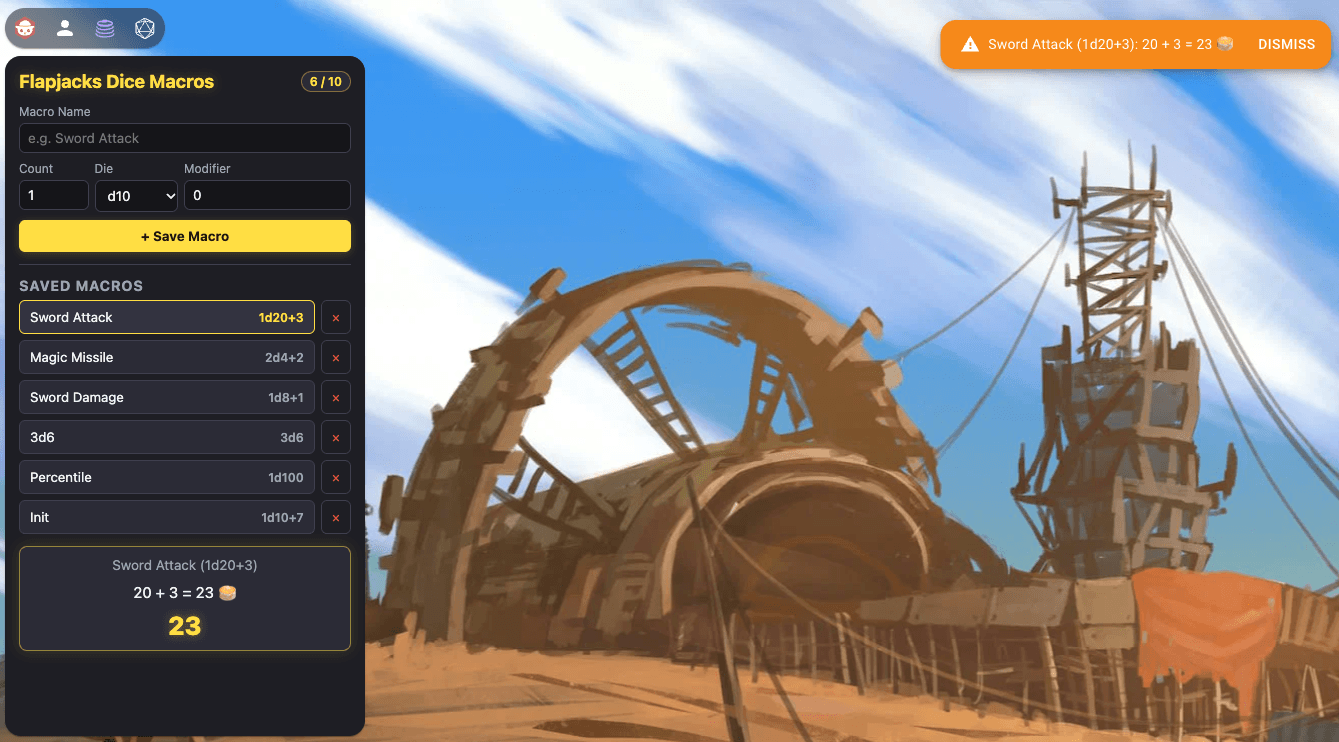
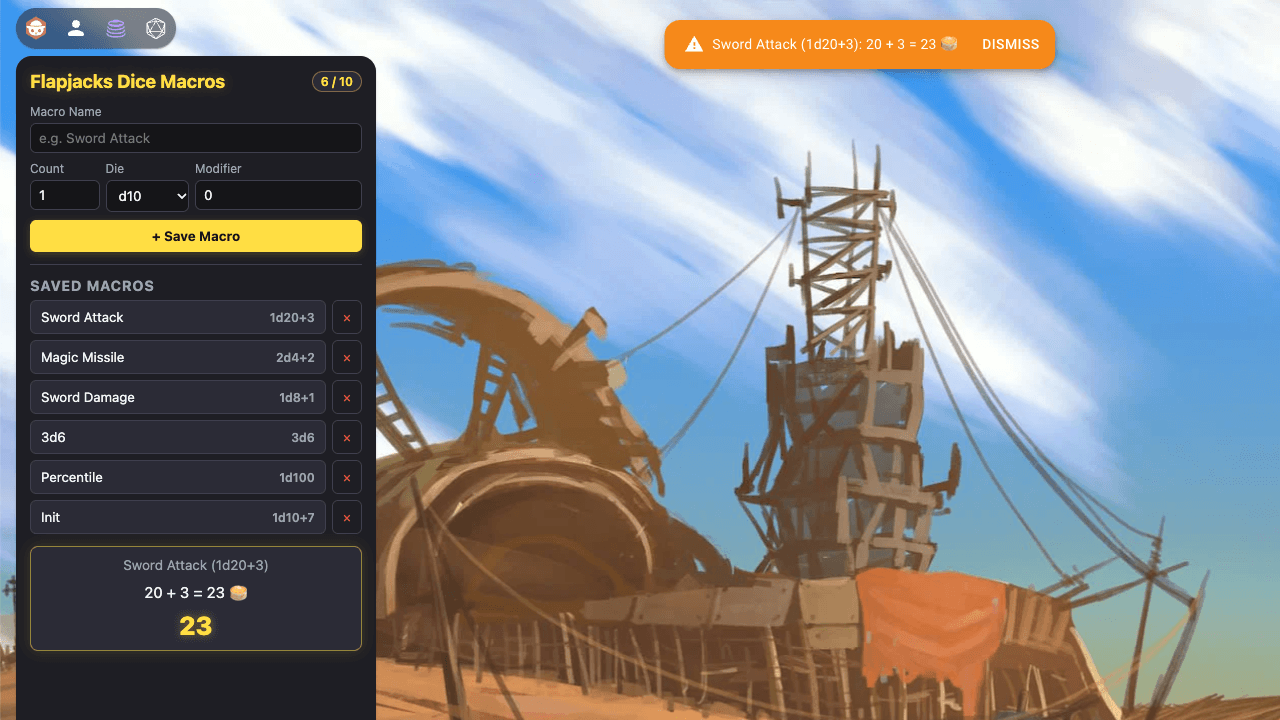
Add files via upload

diff --git a/store.md b/store.md
@@ -1,0 +1,45 @@
+---
+name: Flapjacks Dice Macros
+tagline: Create, save, and roll custom dice macros with full roll breakdowns.
+description: Create quick, reusable dice macros directly inside Owlbear Rodeo. Save up to 10 custom macros across sessions and share exact math breakdowns with the whole room.
+learnMore: https://github.com/athies/flapjacks_dice_macros
+author:
+  name: Flapjacks
+  link: https://github.com/athies
+images:
+  - https://raw.githubusercontent.com/athies/flapjacks_dice_macros/main/screenshot.png
+tags:
+  - Dice
+  - Utility
+---
+
+# Flapjacks Dice Macros
+
+Speed up your tabletop encounters with **Flapjacks Dice Macros**! Configure your most frequent attacks, checks, and damage formulas into one-click buttons right from your toolbar action menu.
+
+![Flapjacks Dice Macros Overview](https://raw.githubusercontent.com/athies/flapjacks_dice_macros/main/screenshot.png)
+
+## Features
+
+- **Up to 10 Persistent Macros:** Build and store up to 10 custom roll buttons saved directly across sessions.
+- **Multiple Die Types & Quantities:** Supports d4, d6, d8, d10, d12, d20, and d100 with any count (e.g. `1d20`, `2d4`, `4d6`).
+- **Flexible Modifiers:** Add positive or negative modifiers (e.g. `+5`, `-2`).
+- **Detailed Math Breakdowns:** Displays every individual die rolled, modifiers, and the final sum (e.g. `Sword Attack (1d20+5): 14 + 5 = 19`).
+- **Real-Time Room Broadcasting:** Rolls are broadcast live to all players in the room via in-game notification banners.
+- **Flapjack Crits:** Rolls that hit the maximum possible dice total earn a celebratory `🥞` pancake badge!
+
+---
+
+## How to Use
+
+1. Click the **Flapjacks Dice Macros** icon in your top toolbar.
+2. Enter a **Name** (e.g. *Sword Attack* or *Sneak Attack*).
+3. Set the **Count**, pick your **Die Type**, and specify any positive or negative **Modifier**.
+4. Click **+ Save Macro**.
+5. Click your new macro button anytime to roll, calculate the breakdown, and announce the result to the room.
+
+---
+
+## Support
+
+Found a bug or have a suggestion? Open an issue on [GitHub](https://github.com/athies/flapjacks_dice_macros).
